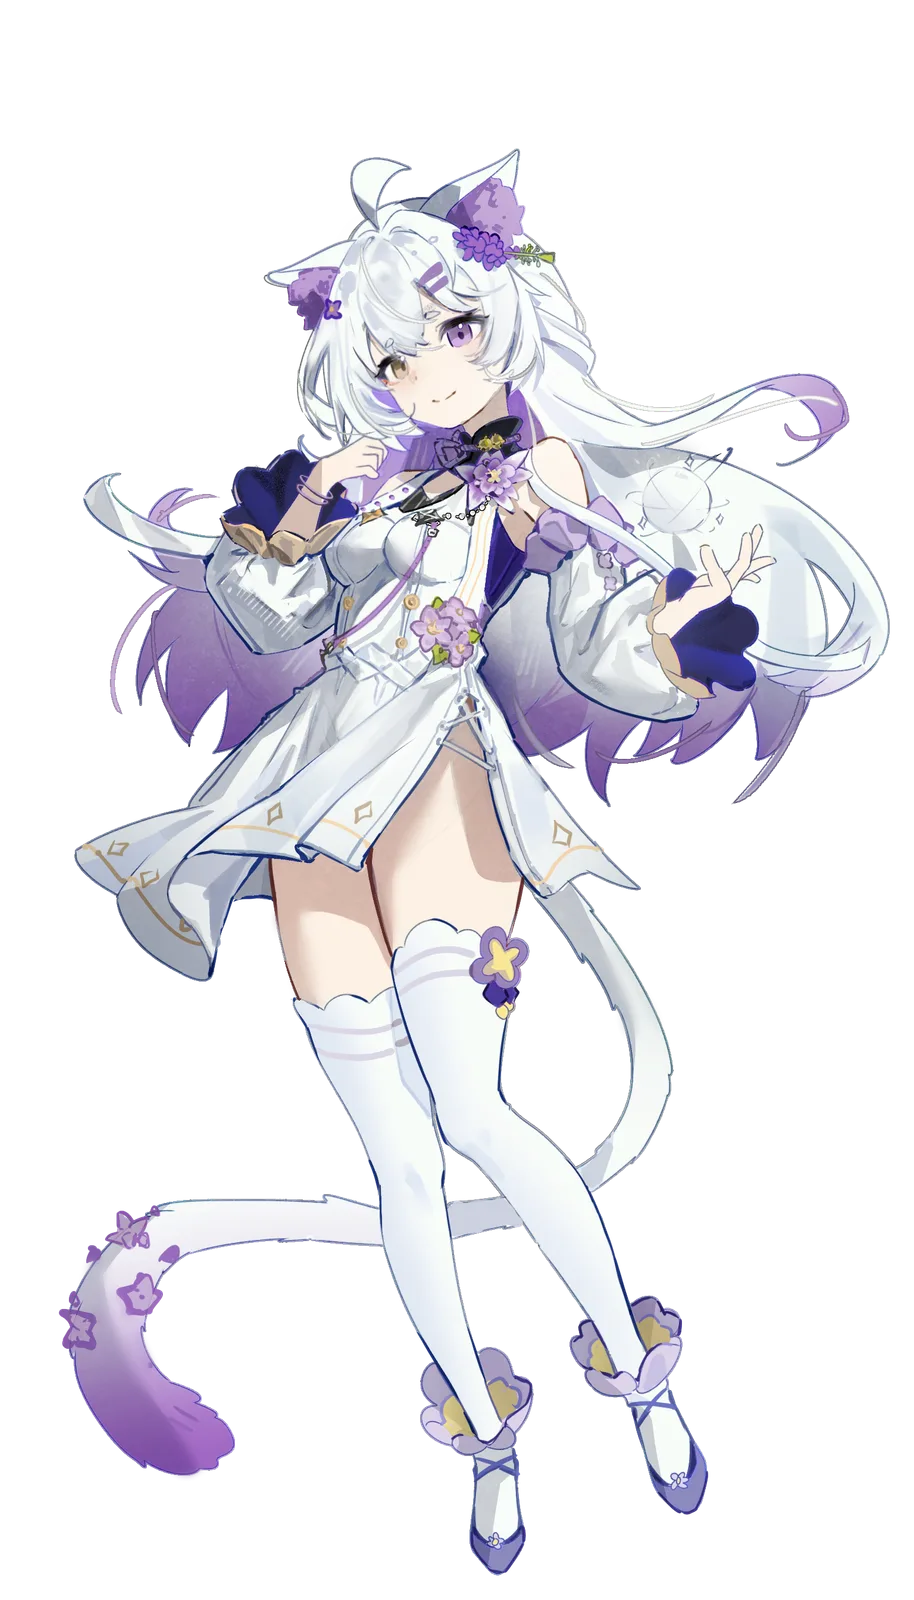
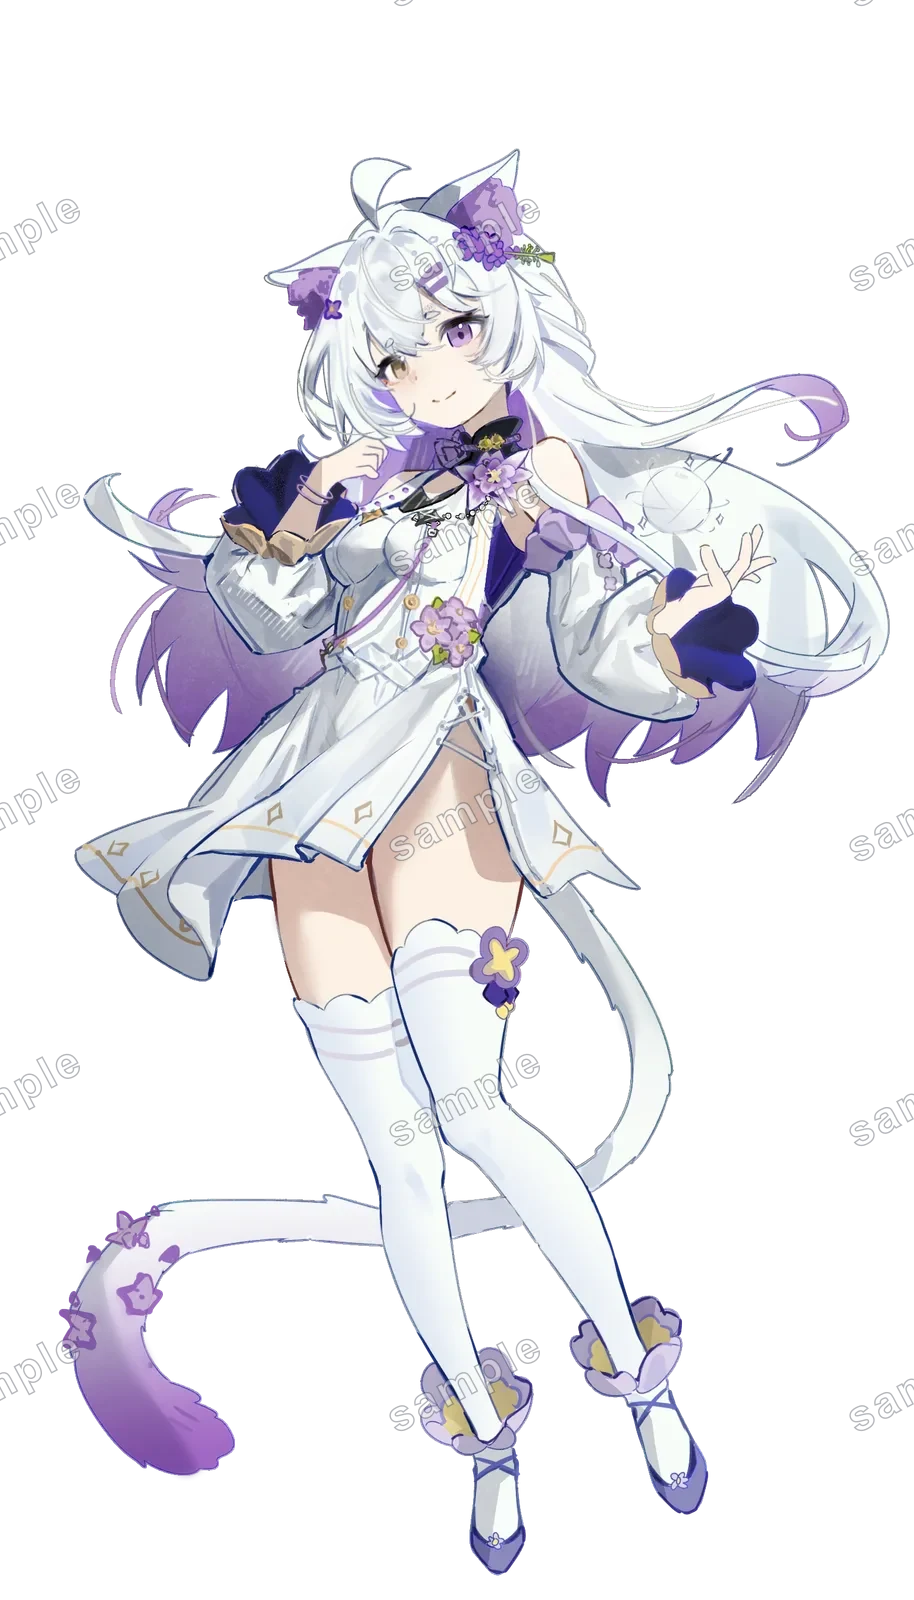
檐下汐与小凤进签筒；别人的立绘统一打水印；双人图归属按作者口径落定
新角色（都是朋友家的子，只进签筒与图池）
- 檐下汐（原「浅水」，设主 浅水 ShallowAqua）：立绘取自作者新交的成品图，
  1600×2400 压到 418KB，头像另裁 860×1075 / 212KB
- 小凤（淼渺喊她「鸟姐姐」）：目前只有一张和淼渺玩水花的插画，
  没有立绘，卡片显示 #NO INFO；设主待补
- 签筒现 12 位

水印：口径改成「按画是谁的判」
- 企划、平行时空目录的图 + 联动角色的图 → 打斜排 sample 水印（现 31 张）
- 自己的原创角色不打，表情包不打
- 关键改动：水印在**重建图池时生成**，不再烧进 staging —— 源文件保持干净、
  可重复跑、规则改了能重来；条目上带 watermark: 'sample' 便于核对

作者逐图口径（写进脚本的 AUTHOR_NOTES，重建后依然生效）
- No.1/No.2 淼渺×飒岚、No.6 淼渺+白茶+祈、No.3 铃月、No.7 飒岚
- 水水支付_04 是墨白单人表情包（原先误判成双人）
- 131-魔药双人 → 墨白
- 浅水的六岁生日合照图 → 大合照，主人檐下汐
- 和鸟姐姐一起玩水花 → 画面里是小凤，标题改成「和小凤一起玩水花」
- 贴贴_17 → 淼渺×飒岚
- 12 张双人/多人图标注完成；未标注 0 张

顺带
- 修好 EXCLUDE 的路径比对（Windows 反斜杠 vs 正斜杠，之前静默失效）、
  以及合并旧清单时覆盖作者口径的问题
- README 补上水印口径、characters 字段与 AUTHOR_NOTES 的说明

自检：构建 163 页；图池自检通过（磁盘 169 = 清单 169）；site-health 零问题

diff --git a/src/content/draw/yanxiaxi.md b/src/content/draw/yanxiaxi.md
@@ -1,0 +1,33 @@
+---
+name: 檐下汐
+kind: 角色
+summary: 淡蓝长发、紫水晶眼睛的少女，珊瑚与贝壳缀在发间，一身白蓝粉的荷叶边裙。名字里的「檐下」与「汐」都是水边的意思——这是她目前公开的全部。
+ownership: 联动
+owner: 浅水 ShallowAqua
+themeColor: '#B9D4F5'
+portrait: '../../assets/oc/characters/yanxiaxi.webp'
+pronouns: 女
+aliases: ['浅水']
+canon: draft
+order: 40
+---
+
+## 基础信息
+
+- **姓名**：檐下汐（曾用名：浅水）
+- **设主**：浅水 ShallowAqua
+- **性别**：女
+
+## 外观简介
+
+- **发色**：淡蓝长发，发尾蓬松
+- **眼睛**：紫色的宝石质地瞳孔
+- **特征**：发间缀着珊瑚枝与贝壳，系着粉紫双色缎带
+- **衣着**：白、淡蓝与粉的荷叶边连衣裙，棕色腰带与白色长袜
+- **配色**：淡蓝与粉为主，点缀金与珊瑚红
+
+## 其他
+
+- 这一位只出现在**签筒**与**图池**里，不在《水塔夜谈》的世界观档案中。
+- 立绘由设主 **浅水 ShallowAqua** 提供；**别人的立绘本站一律打水印**。
+- 性格、种族、故事等待设主补充 —— 补齐后写进这里即可。

diff --git a/src/content/draw/xiaofeng.md b/src/content/draw/xiaofeng.md
@@ -1,0 +1,24 @@
+---
+name: 小凤
+kind: 角色
+summary: 目前只有一张和淼渺一起玩水花的插画。设主信息待补 —— 这份档案先占个位。
+ownership: 联动
+themeColor: '#E5C08A'
+pronouns: 女
+aliases: ['鸟姐姐']
+canon: draft
+order: 50
+---
+
+## 基础信息
+
+- **姓名**：小凤
+- **设主**：待补
+- **性别**：女
+- **别称**：淼渺喊她「鸟姐姐」
+
+## 其他
+
+- 这一位只出现在**签筒**与**图池**里，不在《水塔夜谈》的世界观档案中。
+- 目前站上只有一张图：《和小凤一起玩水花》（淼渺 × 小凤）。
+- **还没有立绘，所以卡片上显示 `#NO INFO`** —— 等设主给图与设定后补进这里。
